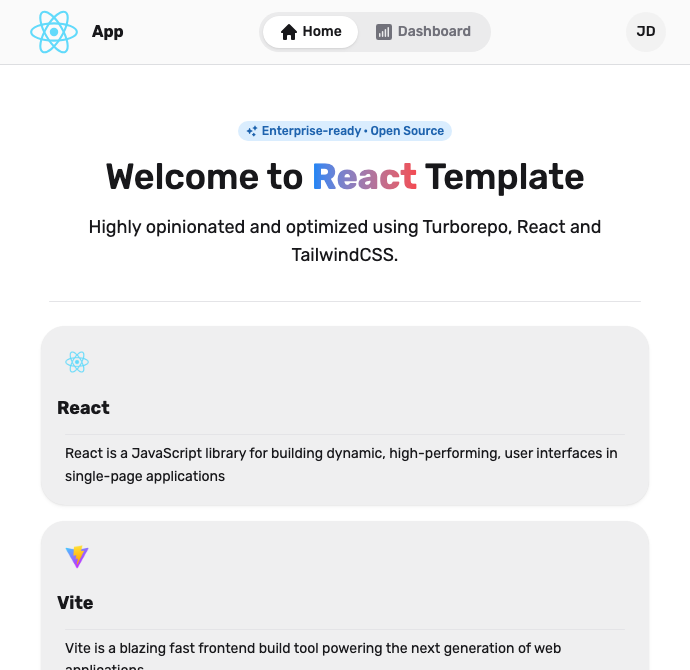
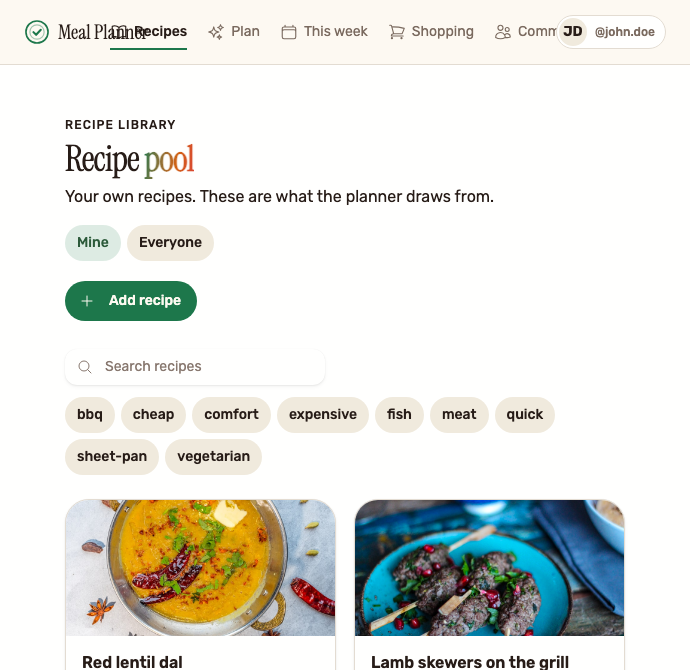
feat: improve buttons

diff --git a/apps/web/src/views/plan/PlanQuotasStepPanel.tsx b/apps/web/src/views/plan/PlanQuotasStepPanel.tsx
@@ -230,14 +230,14 @@ export function PlanQuotasStepPanel({
                 </div>
               </div>
               <div className="flex flex-wrap items-center justify-between gap-2.5">
-                <Button variant="ghost" size="sm" className="text-accent px-0" onPress={onOpenEditDefaultTags}>
+                <Button variant="ghost" size="sm" className="text-accent -ml-3" onPress={onOpenEditDefaultTags}>
                   {intl.formatMessage({
                     description: "PlanQuotasStepPanel: button - edit default tags",
                     defaultMessage: "Edit your default tags",
                     id: "/nm29K",
                   })}
                 </Button>
-                <Button variant="ghost" size="sm" className="text-accent px-0" onPress={onOpenBrowseQuotaTags}>
+                <Button variant="ghost" size="sm" className="text-accent -mr-3" onPress={onOpenBrowseQuotaTags}>
                   {intl.formatMessage({
                     description: "PlanQuotasStepPanel: button - browse all tags",
                     defaultMessage: "Browse all tags",

diff --git a/apps/web/src/views/plan/PlanDaysStepPanel.tsx b/apps/web/src/views/plan/PlanDaysStepPanel.tsx
@@ -58,7 +58,7 @@ export function PlanDaysStepPanel({
         <Button
           variant="ghost"
           size="sm"
-          className="text-accent ml-auto px-0"
+          className="text-accent -mr-3 ml-auto"
           onPress={onOpenWeekPicker}
           data-testid="plan__pick-week"
         >
@@ -122,7 +122,7 @@ export function PlanDaysStepPanel({
 
         <div className="bg-surface-secondary flex flex-wrap items-center justify-between gap-3 px-6 py-4">
           <span className="text-default-500 text-sm">{mealSummary}</span>
-          <Button variant="ghost" size="sm" className="text-accent px-0" onPress={onApplyFirstDayToAll}>
+          <Button variant="ghost" size="sm" className="text-accent -mr-3" onPress={onApplyFirstDayToAll}>
             {intl.formatMessage({
               description: "PlanDaysStepPanel: button - copy first day to all",
               defaultMessage: "Copy Monday's setup to all days",

diff --git a/apps/web/src/components/feedback/week-picker-dialog/WeekPickerDialog.tsx b/apps/web/src/components/feedback/week-picker-dialog/WeekPickerDialog.tsx
@@ -82,7 +82,7 @@ export function WeekPickerDialog({
                 >
                   <ChevronRightIcon className="h-4 w-4" />
                 </Button>
-                <Button variant="ghost" size="sm" className="text-accent ml-auto px-0" onPress={onToday}>
+                <Button variant="ghost" size="sm" className="text-accent -mr-3 ml-auto" onPress={onToday}>
                   {intl.formatMessage({
                     description: "WeekPickerDialog: button - back to this week",
                     defaultMessage: "Back to this week",

diff --git a/apps/web/src/views/community/CommunityFeedPanel.tsx b/apps/web/src/views/community/CommunityFeedPanel.tsx
@@ -84,7 +84,7 @@ export function CommunityFeedPanel({
           ))}
 
           {feed.hasTagFilter && (
-            <Button variant="ghost" size="sm" className="text-accent px-2" onPress={feed.clearTags}>
+            <Button variant="ghost" size="sm" className="text-accent" onPress={feed.clearTags}>
               {intl.formatMessage({
                 description: "CommunityFeedPanel: button - clear the tag filter",
                 defaultMessage: "Clear",

diff --git a/apps/web/src/views/recipe-edit/RecipeEditTagsPanel.tsx b/apps/web/src/views/recipe-edit/RecipeEditTagsPanel.tsx
@@ -80,7 +80,7 @@ export function RecipeEditTagsPanel({
       </div>
 
       <div className="mt-2.5">
-        <Button variant="ghost" size="sm" className="text-accent px-0" onPress={onBrowseAllTags}>
+        <Button variant="ghost" size="sm" className="text-accent -ml-3" onPress={onBrowseAllTags}>
           {intl.formatMessage({
             description: "RecipeEditTagsPanel: button - browse all tags",
             defaultMessage: "Browse all tags",

diff --git a/apps/web/src/components/display/recipe-card/RecipeCard.tsx b/apps/web/src/components/display/recipe-card/RecipeCard.tsx
@@ -128,7 +128,7 @@ export function RecipeCard({ recipe, showSaveAction, onOpen, onSave, onRemove }:
             <Button
               variant="ghost"
               size="sm"
-              className="text-danger px-0"
+              className="text-danger -ml-3"
               onPress={() => onRemove?.(recipe.id)}
               data-testid={`recipe-card__remove--${recipe.id}`}
             >

diff --git a/apps/web/src/views/recipe-edit/RecipeEditStepsPanel.tsx b/apps/web/src/views/recipe-edit/RecipeEditStepsPanel.tsx
@@ -27,7 +27,7 @@ export function RecipeEditStepsPanel({ steps, onUpdate, onAdd, onRemove }: Recip
         <Button
           variant="ghost"
           size="sm"
-          className="text-accent px-0"
+          className="text-accent -mr-3"
           onPress={onAdd}
           data-testid="recipe-edit__add-step"
         >

diff --git a/apps/web/src/views/recipe-edit/RecipeEditIngredientsPanel.tsx b/apps/web/src/views/recipe-edit/RecipeEditIngredientsPanel.tsx
@@ -33,7 +33,7 @@ export function RecipeEditIngredientsPanel({
         <Button
           variant="ghost"
           size="sm"
-          className="text-accent px-0"
+          className="text-accent -mr-3"
           onPress={onAdd}
           data-testid="recipe-edit__add-ingredient"
         >
